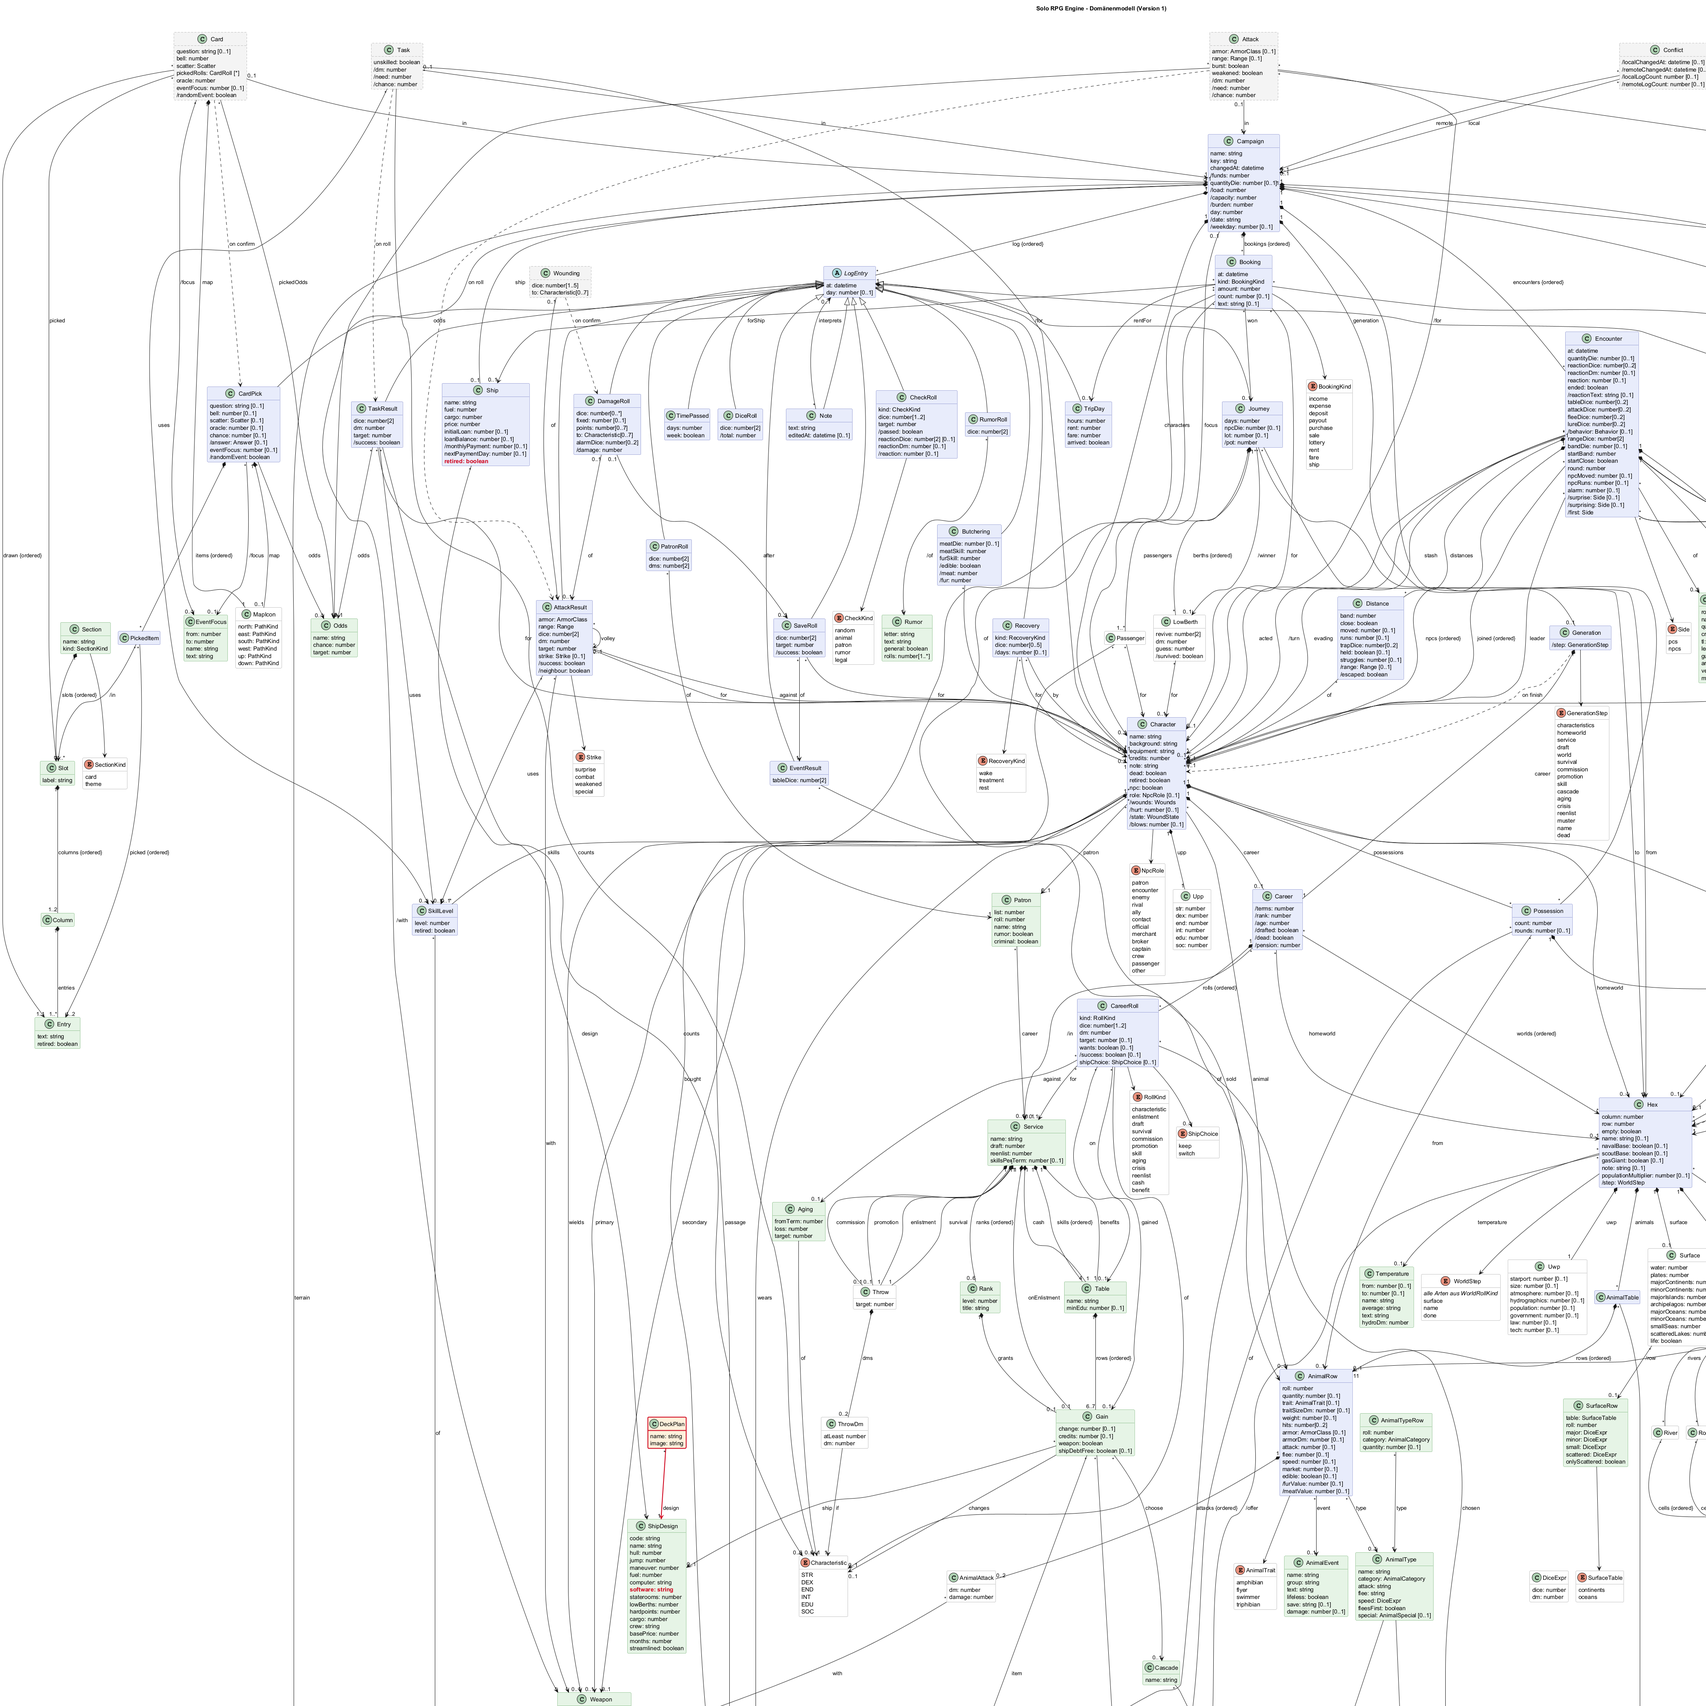
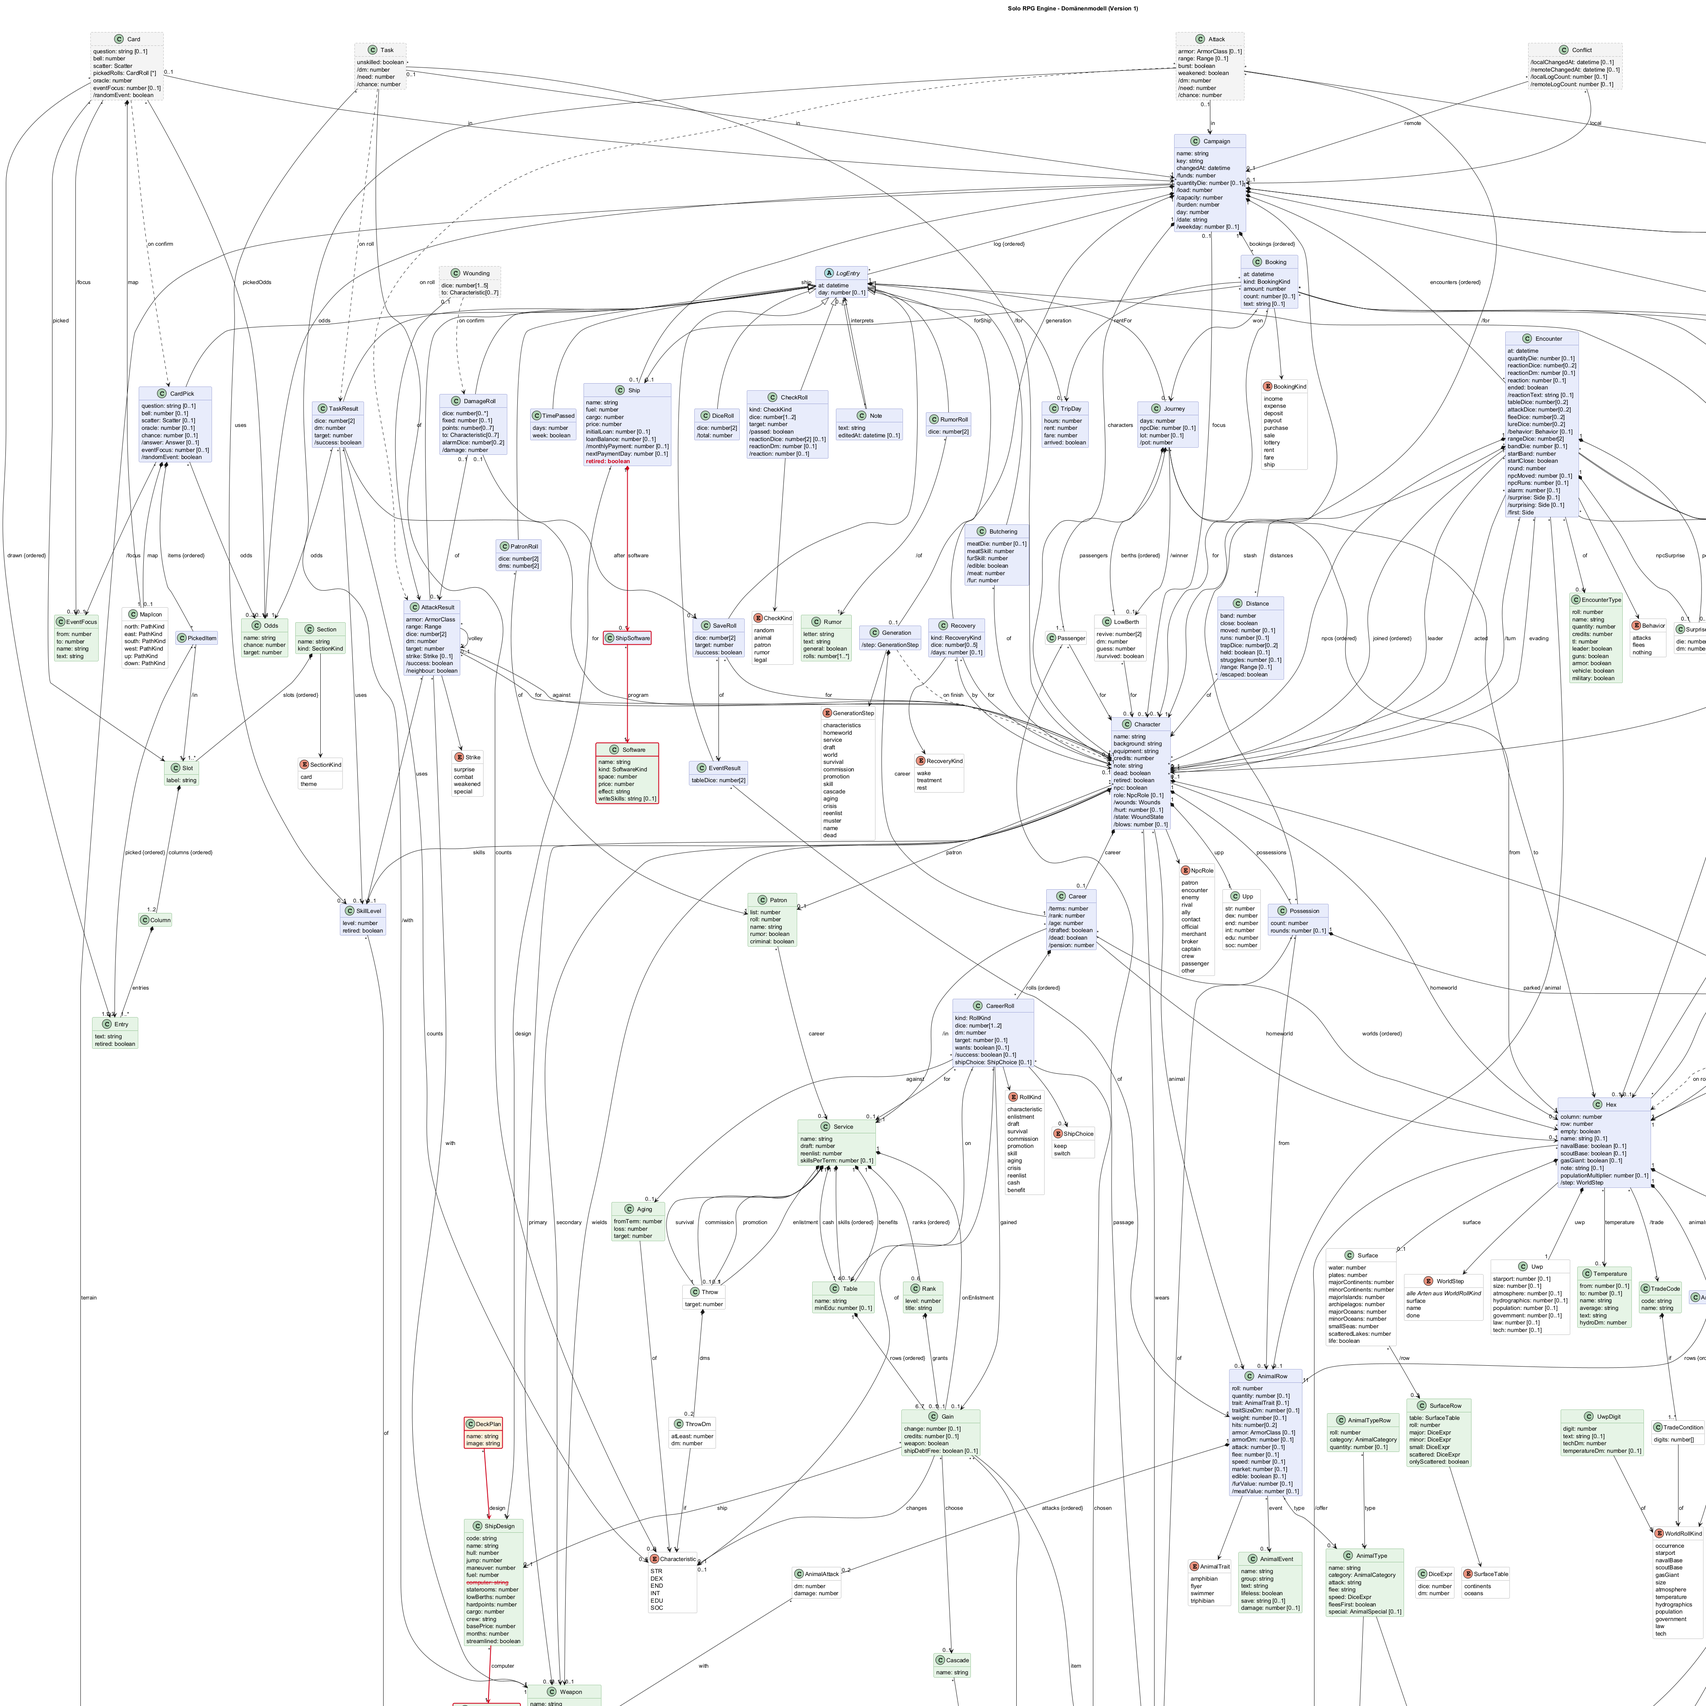
Schiffe: Software, Rechner und Bordsoftware statt Textfeld (Änderung 2026-11-16b)
Regeln (docs/regeln-schiffe.md), SE liegt jetzt als PDF vor (CD-ROM-Ordner
des Owners):
- Software List SE 13 vollständig übertragen: 36 Programme mit Space, MCr,
  Wirkung und Schreib-Anforderungen
- Computer-Tabelle SE 10 übertragen: Modell 1 bis 7 (je mit bis) mit Preis,
  Tonnen, CPU/Storage, TL; Standard-Softwarepaket = MCr je Modellzahl
- Lücken-Abschnitt überarbeitet: Fundstellen im PDF bestätigt, Übertragung
  folgt je Thema

Modell (noch offen, Kennzeichen 2026-11-16b):
- Software <<reference>> (name, kind, space, price, effect, writeSkills) und
  SoftwareKind (offensiv, defensiv, routine)
- ComputerModel <<reference>> (name, jump, price, tons, cpu, storage, tl,
  /softwareCredit); ShipDesign.computer wird Verweis statt Text
- ShipSoftware als Spielstand: was ein konkretes Schiff an Bord hat
- Begriffe, Regeln und offene Fragen in domain-model.md nachgezogen

diff --git a/docs/regeln-schiffe.md b/docs/regeln-schiffe.md
@@ -17,7 +17,7 @@ modelliert, siehe `domain-model.md` unter *Zeit und Reisen*; hier geht es um das
 | Kürzel | Buch | Seitenangaben |
 |---|---|---|
 | **SR** | *Traveller Starter Edition*, Teil 1: *Rules Booklet* (GDW 1983), Kapitel *Travel* (S. 27–28), *Starship Economics* (S. 29–30), *Starships* (S. 31–37), *Computers* (S. 38–39), *Space Combat* (S. 39–42), *Trade and Commerce* (S. 52) | gedruckte Seitenzahl; im PDF ist es die Seite + 2 |
-| **SE** | *Traveller Starter Edition*, Teil 2: *Charts and Tables* (GDW 1983) | liegt nicht vor; nur die Seitenangaben aus SR sind bekannt (siehe [Lücken](#lücken-fehlende-tabellen-aus-se)) |
+| **SE** | *Traveller Starter Edition*, Teil 2: *Charts and Tables* (GDW 1983) | liegt als PDF vor (CD-ROM „Classic Traveller“, `CT Traveller Starter Edition 2 Charts.pdf`); gedruckte Seite = PDF-Seite − 2 |
 
 - Regeltexte sind auf Deutsch zusammengefasst, Tabellen (soweit aus SR bekannt) vollständig
   übernommen. Namen aus den Tabellen (Schiffstypen, Komponenten, Programme) bleiben englisch, wie in
@@ -282,36 +282,93 @@ Standardentwürfen (siehe unten) sind einige Werte bekannt: Antrieb-A liefert in
 
 ## Computer und Software
 
-*SR 38–39, „Computers“.*
+*SR 38–39, „Computers“; Tabellen SE 10 und 13.*
 
 Der Computer steuert alle Schiffsfunktionen; **CPU** (gleichzeitig laufende Programme) und
-**Storage** (bereitgehaltene Programme) sind in Größe/Space angegeben, Modelle 1 bis 7 (je mit
-einer „bis“-Version als nächsthöhere Stufe). Modell/4 oder besser ist für Jump-4+ Pflicht. Preis-/
-Tonnage-/Kapazitätswerte je Modell fehlen (siehe [Lücken](#lücken-fehlende-tabellen-aus-se)).
+**Storage** (bereitgehaltene Programme, die man in die CPU tauschen kann) sind in *Space*
+angegeben. Modelle 1 bis 7, je mit einer „bis"-Version (nächste Sprungstufe, aber Softwarewert
+und Ausrüstung des darunterliegenden Modells). Die Modellzahl ist zugleich die höchste
+unterstützte Sprungzahl: für Jump-4 braucht das Schiff einen Computer Modell/4 oder besser
+*zusätzlich* zum eingebauten Jump Drive.
 
-**Software** (Offensiv nur mit Bewaffnung nutzbar; Routine ohne Bewaffnung relevant; Defensiv zum
-Schutz):
+### Computer (SE 10, „Computers“)
 
-| Programm | Art | Wirkung |
-|---|---|---|
-| Target | offensiv (Pflicht) | identifiziert feindliche Schiffe, steuert alle Turrets; kein eigener DM |
-| Predict | offensiv | sagt die Zielposition voraus, nur für Laserfeuer, vorteilhafter DM |
-| Gunner Interact | offensiv | Fertigkeit des Gunners wird DM auf Treffer mit Laser |
-| Selective | offensiv | Ziel wählt Hauptbereich oder Engineering gezielt; DM gegen Trefferwahrscheinlichkeit |
-| Launch | offensiv | erlaubt Abschuss von Raketen/Sand aus Racks/Sandcastern |
-| Multi-Target | offensiv | mehrere Turrets greifen verschiedene Ziele in derselben Phase an; Pflicht mit Target |
-| Double Fire | offensiv | Energiewerk ≥ Maneuver-Drive-Buchstabe: doppelter Laserschuss, Überlastrisiko (siehe Raumkampf) |
-| Maneuver/Evade | defensiv | 6 Stufen, automatische Ausweichbewegung, DM nach Pilotenfertigkeit |
-| Auto-Evade | defensiv | wie Maneuver/Evade, aber schwächer, DM −2 gegen Laserfeuer |
-| ECM | defensiv | Gegenmaßnahme gegen anfliegende Raketen: Zerstörung ohne Schaden bei 7+ |
-| Return Fire | defensiv | Laser-Rückfeuer auf Schiffe, die im vorigen Laserfeuer-Zug gefeuert haben |
-| Anti-Missile | defensiv | Laserfeuer gegen Raketen im eigenen Entfernungsband |
-| Maneuver | routine | Pflicht für Einsatz des Maneuver Drive (wird im Kampf oft durch Maneuver/Evade ersetzt) |
-| Jump | routine | Pflicht für einen Sprung, braucht das passende Jump-Programm zur Sprungzahl |
-| Library | routine | Nachschlagewerk zu Region/Subsektor |
-| Generate | routine | erstellt den Flugplan für einen Sprung; alternativ Flugplan-Kassette am Hafen, Cr10.000 |
-| Navigation | routine | führt den Sprung anhand des Flugplans durch |
-| Anti-Hijack | routine | sperrt Kontrollbereiche gegen Entführer; Umgehung bei Wurf 5− |
+| Modell | Preis MCr | Tonnen | Kapazität CPU/Storage | TL |
+|---|---|---|---|---|
+| Modell/1 | 2 | 1 | 2/4 | 5 |
+| Modell/1bis | 4 | 1 | 4/0 | 6 |
+| Modell/2 | 9 | 2 | 3/6 | 7 |
+| Modell/2bis | 18 | 2 | 6/0 | 8 |
+| Modell/3 | 18 | 3 | 5/9 | 9 |
+| Modell/4 | 30 | 4 | 8/15 | A |
+| Modell/5 | 45 | 5 | 12/25 | B |
+| Modell/6 | 55 | 7 | 15/35 | C |
+| Modell/7 | 80 | 9 | 20/50 | D |
+
+Beispiel aus SR 12 (Scout/Courier „Suleiman“): Modell/1 → CPU = 2, Storage = 4; von den
+gespeicherten Programmen laufen jederzeit höchstens so viele, wie die CPU fasst; in der
+Reprogramming-Phase des Zuges tauscht man um.
+
+**Standard Software Packages** (SE 10/13): Jeder Computer kommt mit einem Softwarepaket, das
+der Käufer aus der Liste wählt; sein Wert: **MCr gleich der Modellzahl** (1bis und 2bis zählen
+dabei als 1 bzw. 2). Das Kredit ist kein Bargeld („may not be converted to cash“).
+
+### Software List (SE 13)
+
+Space = Platzbedarf in CPU *und* Storage, Preis in MCr. Die letzten Spalten (*Schreiben*) sind
+die Anforderungen an Personen, die das Programm selbst schreiben wollen (spart das Geld, kann
+aber *Fatal Flaws* geben, SR 39).
+
+**Offensiv** (nur mit Bewaffnung sinnvoll):
+
+| Programm | Space | MCr | Schreiben | Wirkung |
+|---|---|---|---|---|
+| Predict-1 | 1 | 2 | 1, Navig-1 | DM +1 auf Trefferwurf |
+| Predict-2 | 2 | 4 | 1, Navig-2 | DM +2 |
+| Predict-3 | 1 | 6 | 1, Navig-3 | DM +2 |
+| Predict-4 | 3 | 8 | 1, Navig-4 | DM +3 |
+| Predict-5 | 2 | 10 | 2, Navig-5 | DM +3 |
+| Gunner Interact | 1 | 1 | 2, Gunnery-2 | Fertigkeit des Gunners wird DM |
+| Target | 1 | 1 | 2, Navig-2 | Pflicht für jedes Feuer der Turrets |
+| Select-1 | 1 | 0,5 | 1, Gunnery-2 | Zielwahl Hauptbereich/Engineering, DM −2 |
+| Select-2 | 2 | 0,8 | 2, Gunnery-3 | wie Select-1, DM −1 |
+| Select-3 | 1 | 1 | 3, Gunnery-4 | wie Select-1, ohne DM |
+| Multi-Target-2 | 1 | 1 | 2, Gunnery-2 | Turrets auf 2 Ziele zugleich |
+| Multi-Target-3 | 2 | 2 | 2, Gunnery-3 | auf 3 Ziele |
+| Multi-Target-4 | 4 | 3 | 3, Gunnery-4 | auf 4 Ziele |
+| Launch | 1 | 2 | 1, Gunnery-2 | Raketen und Sand abschussfähig |
+| Double Fire | 4 | 4 | 2, Engineer-3 | doppelter Laserschuss, Überlastrisiko |
+
+**Defensiv**:
+
+| Programm | Space | MCr | Schreiben | Wirkung |
+|---|---|---|---|---|
+| Maneuver/Evade-1 | 1 | 1 | 1, Pilot-2 | Verteidigungs-DM −¼ Pilotenstufe |
+| Maneuver/Evade-2 | 2 | 2 | 1, Pilot-3 | −½ Pilotenstufe |
+| Maneuver/Evade-3 | 3 | 3 | 2, Pilot-4 | −¾ Pilotenstufe |
+| Maneuver/Evade-4 | 4 | 4 | 2, Pilot-5 | − volle Pilotenstufe |
+| Maneuver/Evade-5 | 5 | 5 | 3, Pilot-6 | − volle Pilotenstufe |
+| Maneuver/Evade-6 | 3 | 6 | 3, Pilot-7 | −5 |
+| Auto-Evade | 1 | 0,5 | 2, Pilot-4 | wie Maneuver/Evade, schwächer: −2 |
+| Return Fire | 1 | 0,5 | 2, Gunnery-3 | automatisches Rückfeuer |
+| Anti-Missile | 2 | 1 | 3, Gunnery-3 | Laser gegen Raketen im eigenen Band |
+| ECM | 3 | 4 | 4, Electronics-3 | Raketen explodieren folgenlos bei 7+ |
+
+**Routine** (Betrieb ohne Waffen):
+
+| Programm | Space | MCr | Schreiben | Wirkung |
+|---|---|---|---|---|
+| Maneuver | 1 | 0,1 | 1, Pilot-1 | Pflicht für den Maneuver Drive |
+| Jump-1 | 1 | 0,1 | 1, Pilot/Navig-1 | Pflicht für Sprung 1 |
+| Jump-2 | 2 | 0,3 | 2, Pilot/Navig-2 | Pflicht für Sprung 2 |
+| Jump-3 | 3 | 0,4 | 2, Pilot/Navig-3 | Pflicht für Sprung 3 |
+| Jump-4 | 4 | 0,5 | 3, Pilot/Navig-4 | Pflicht für Sprung 4 |
+| Jump-5 | 5 | 0,6 | 3, Pilot/Navig-5 | Pflicht für Sprung 5 |
+| Jump-6 | 6 | 0,7 | 4, Pilot/Navig-6 | Pflicht für Sprung 6 |
+| Navigation | 1 | 0,4 | 3, Navig-3 | führt den Sprung aus |
+| Generate | 1 | 0,8 | 3, Navig-4 | erstellt den Flugplan (sonst Kassette Cr10.000) |
+| Anti-Hijack | 1 | 0,1 | 1, Tactics-1 | sperrt Kontrollbereiche; Umgehung auf 5− |
+| Library | 1 | 0,3 | 1, keine | Nachschlagewerk zu Region/Subsektor |
 
 - **Fatal Flaws**: selbstgeschriebene Programme können einen verborgenen Fehler haben (Wurf 11+,
   Ermessen der Spielleitung).
@@ -507,24 +564,22 @@ Siehe [Schiffsbegegnungen im System](#schiffsbegegnungen-im-system).
 
 ## Lücken (fehlende Tabellen aus SE)
 
-Diese Tabellen stehen im Heft *Charts and Tables*, das für dieses Dokument nicht vorlag. Ohne sie
-lässt sich zwar mit den **Standardentwürfen** spielen (ihre Werte stehen vollständig in SR), aber
-kein eigener Schiffsentwurf, kein spekulativer Handel mit genauen Zahlen und kein Raumkampf mit
-exakten Trefferfolgen:
+Das Heft *Charts and Tables* liegt inzwischen als PDF vor (siehe *Quellen*). Die meisten
+Tabellen fehlen damit nicht mehr, sie sind nur noch **nicht übertragen** – sie kommen, wenn das
+jeweilige Thema an der Reihe ist, vollständig hierher (Software List und Computer sind oben
+schon übertragen). Als Fundstellen in SE sind bestätigt:
 
-- **Drive Potential Table** (Antriebsbuchstaben A–Z je Rumpfgröße, SE 10).
-- **Drives and Power Plants Table** (Preis/Tonnage je Antriebsbuchstabe, SE 10).
-- **Standard Hulls Table** (sechs vergünstigte Rümpfe, SE 10).
-- **Computer Table** (Preis/Tonnage/CPU/Storage je Modell 1–7 und bis-Versionen, SE 13).
-- **Software List** (genaue Space-/MCr-Werte je Programm, SE 13; die Wirkungen stehen oben).
-- **Weapons and Mounts Table** (Preise für Turrets/Waffen, SE 12).
-- **Cargo Table**, **Passenger Traffic Table** (SE 9).
-- **Trade and Speculation Table**, **Actual Value Table** (Warenarten, Grundpreise, Kauf-/
-  Verkaufs-DMs, SE 22).
-- **Starship Encounter Table**, **Standard Small Craft Table** (Begegnungen je Hafenklasse, SE 13).
-- **Hit Location Table**, **Critical Hit Table** (SE 12–13).
-- **Crew Salary Schedule** (SE 9).
+- **Standard Hulls**, **Drives and Power Plants**, **Drive Potential**, **Computers**,
+  **Software List**, **Weapons and Mounts**, **Fittings**, **Bridge**, **Armaments** (SE 10)
+- **Crew Requirements** mit Monatsgehältern (Cr6.000 Pilot, Cr5.000 Navigator, Cr4.000 Engineer,
+  Cr3.000 Steward, Cr2.000 Medic, Cr1.000 Gunner; Mehrfachposition: Stufe −1, Gehalt 75 % beider
+  Positionen) (SE 11)
+- **Attacker’s/Defender’s DMs**, **Hit Locations**, **Critical Hits**, **Scales**, Beispiel einer
+  Schiffs-Datenkarte (SE 12)
+- **Starship Encounters**, **Standard Small Craft**, **Detection**, **Special Rules** (SE 13)
+- **Technological Levels** (SE 16)
+- **Trade and Speculation** (SE 22; die *Actual Value Table* und die *Cargo-* und
+  *Passagiertabellen* sind noch zu suchen, vermutlich SE 9/22–23)
 
-Wird eines dieser Themen für die App gebraucht, zuerst die Lücke mit der *Charts and Tables*-Tabelle
-schließen (Scan besorgen oder Hausregel festlegen), dann hier eintragen, erst danach ins
-Domänenmodell übernehmen.
+Wird eines dieser Themen für die App gebraucht, die Tabelle aus dem PDF vollständig hier
+eintragen, erst danach ins Domänenmodell übernehmen.

diff --git a/docs/domain-model.md b/docs/domain-model.md
@@ -689,7 +689,9 @@ Vacc Suit, Jack-of-all-Trades, …), Terms, Cr.
 | Ship-Vorteil der Abmusterung | `Gain.ship`, `Gain.shipDebtFree` | Eine Zeile der Mustering-out-Tabelle, die ein Schiff gibt: schuldenfrei (Scout) oder als Anteil an einer Restschuld (Merchant) |
 | Schiffswahl | `CareerRoll.shipChoice`, `ShipChoice` | Nur gesetzt, wenn die Kampagne beim Würfeln des Ship-Vorteils schon ein anderes Schiff hat: behalten oder wechseln (das alte Schiff wird ausgeblendet, seine Restschuld behält es nur für sich; Änderung 2026-11-16b) |
 | Ausgedientes Schiff | `Ship.retired` | Ein altes Schiff, worauf noch Buchungen zeigen: ausgeblendet, bleibt aber in der Kampagne (Änderung 2026-11-16b) |
-| Software an Bord | `ShipDesign.software` | Welche Routine-Programme ein Schiff dieses Entwurfs dabeihat (SR 38–39); ein Text, solange es keinen Software-Kauf gibt (Änderung 2026-11-16b) |
+| Software (Programm) | `Software` | Ein Programm der Software-Liste (SR 38–39, SE 13): Platzbedarf in Space, Preis, Wirkung; Art nach `SoftwareKind` (offensiv, defensiv, routine) (Änderung 2026-11-16b) |
+| Rechnermodell | `ComputerModel` | Modell 1 bis 7 (je mit „bis“): Preis, Tonnen, CPU und Storage in Space, TL; die Modellzahl ist die höchste Sprungzahl und der Wert des Softwarepakets in MCr (SE 10) (Änderung 2026-11-16b) |
+| Software an Bord | `ShipSoftware` | Ein Programm, das ein konkretes Schiff dabeihat; beim Kauf aus dem Softwarepaket des Computers gewählt (Änderung 2026-11-16b) |
 | Deckplan | `DeckPlan` | Der Plan eines Schiffsentwurfs als Bild: bis zu drei eigene, als PNG hochgeladen oder fotografiert; das Gerät merkt sie sich über Kampagnen hinweg, Export und OneDrive holen sie nicht (Änderung 2026-11-16b) |
 
 ## Regeln, die das Bild nicht zeigt
@@ -2550,11 +2552,17 @@ Vacc Suit, Jack-of-all-Trades, …), Terms, Cr.
     es weiter. `Campaign.ship` und der Reiter Schiff kennen nur das nicht ausgeblendete
     Schiff. Die Regel *Worauf der Log verweist, wird nie gelöscht* gilt damit auch für
     Schiffe.
-  - **Software an Bord** (Änderung 2026-11-16b, offen). `ShipDesign.software` hält als Text
-    fest, welche Routine-Programme ein Schiff dieses Entwurfs dabeihat (SR 38–39: Maneuver,
-    Jump mit Jump-Programm zur Sprungzahl, Navigation, Generate, Anti-Hijack, Library …).
-    Solange es keinen Software-Handel gibt, ist sie an keinem Schiff gespeichert; die Ansicht
-    zeigt den Text des Entwurfs.
+  - **Software, Rechner, was an Bord ist** (Änderung 2026-11-16b, offen). Nach SE 10 und 13:
+    `ComputerModel` hält die neun Rechnermodelle (Preis, Tonnen, CPU und Storage in Space,
+    TL; die Modellzahl ist die höchste Sprungzahl – Jump-4 braucht Modell/4 – und der Wert
+    des Softwarepakets `/softwareCredit` in MCr; „bis“-Modelle zählen beim Paketwert als die
+    untere Stufe). `Software` hält alle 36 Programme der Software-Liste (Name, Art, Space,
+    Preis, Wirkung; `writeSkills` nur für selbstgeschriebene Programme, ein späterer
+    Schritt). Was ein konkretes Schiff dabeihat, ist Spielstand: `ShipSoftware` verweist je
+    Programm auf `Software`; beim Kauf wählt der Käufer Programme bis zum Wert des Pakets
+    (kein Bargeld). Der Entwurf verweist über `computer` auf ein `ComputerModel` statt auf
+    den bisherigen Text. Welche Programme gerade in der CPU laufen, ist taktisch und kommt
+    erst mit dem Raumkampf.
   - **Deckpläne** (Änderung 2026-11-16b, offen). Bis zu drei eigene Pläne je Entwurf:
     Bilder, als PNG hochgeladen oder mit der Kamera fotografiert, je mit Namen.
     `DeckPlan` ist orange **Geräte-Daten**: Das Gerät hält sie in einem eigenen Repository
@@ -2576,9 +2584,12 @@ Vacc Suit, Jack-of-all-Trades, …), Terms, Cr.
     - **Subventionierte Entwürfe** (Subsidized Merchant, Subsidized Liner) stehen da wie die
       anderen; die Subventionsregeln (SR 29: feste Route, Regierung zahlt 50 % der Monatsrate,
       schuldenfrei nach 20 Jahren, Mobilmachung im Notfall) sind nicht modelliert.
-    - **Deckpläne und Software aus dem UI-Mock** (`docs/mock/schiff-tab.html`): Dazu liegt die
-      Änderung 2026-11-16b bereit (Deckpläne als Geräte-Daten je Entwurf, Software als
-      Referenztext am Entwurf); freigegeben ist sie noch nicht.
+    - **Deckpläne und Software aus dem UI-Mock** (`docs/mock/schiff-tab.html`): Dazu liegt
+      die Änderung 2026-11-16b bereit (Deckpläne als Geräte-Daten je Entwurf; Software-,
+      Rechner- und Bordsoftware-Klassen); freigegeben ist sie noch nicht. Offen bleibt,
+      wer beim Kauf das Softwarepaket wählt: eine Auswahl in der Werft, oder vorerst ein
+      Hausregel-Standard je Entwurf. Der Einbau später gekaufter Programme und der
+      Rechner-Tausch (SE 10) folgen mit dem Software-Handel.
     - Ebenso offen: Pfändung bei Zahlungsverzug (siehe oben), Verkauf eines Schiffs, mehrere
       Schiffe, Custom-Entwürfe, Small Craft als eigene `ShipDesign`, und der **Preisnachlass
       für ein gebrauchtes Standardschiff** (SR 31: 10–40 % je nach Alter) über `Ship.price`.
